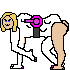
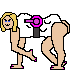
working on female frames

diff --git a/src/enemy.js b/src/enemy.js
@@ -204,9 +204,13 @@ export default class Enemy {
           this.fireRate = 15;
           this.width = 70;
           this.height = 58;
-          this.statica = true;
-          if (!this.inPosition) this.static.src = "src/assets/images/enemy-sheep/girl-sheep-clear.png";
-          else this.static.src = "src/assets/images/enemy-sheep/girl-sheep-clear.png";
+          this.framework.src = "src/assets/images/enemy-sheep/girl-frames/clears/spritesheet.png";
+
+          if (!this.animation) this.static.src = "src/assets/images/assault-pig/pig-stand-clear.png";
+          else this.static.src = "src/assets/images/assault-pig/pig-stand-fire.png";
+
+          // if (!this.inPosition) this.static.src = "src/assets/images/enemy-sheep/girl-sheep-clear.png";
+          // else this.static.src = "src/assets/images/enemy-sheep/girl-sheep-clear.png";
           break;  
       }
 

diff --git a/src/script.js b/src/script.js
@@ -843,8 +843,8 @@ function handleState() {
             // SPEC ROUND SHOULD BE 5. 
             // enemy speed on final round is 5.1.
 
-            let specRounds = {4: "SPECIAL", 6: "NATURAL", 7: "RELIEF", 9: "BOSS", 10: "END"};
-            // let specRounds = {1: "NATURAL", 2: "RELIEF", 8: "BOSS", 10: "END"};
+            // let specRounds = {4: "SPECIAL", 6: "NATURAL", 7: "RELIEF", 9: "BOSS", 10: "END"};
+            let specRounds = {6: "NATURAL", 7: "RELIEF", 1: "BOSS", 2: "END"};
 
 
             if (Object.keys(specRounds).includes(currentRound.toString())) {
